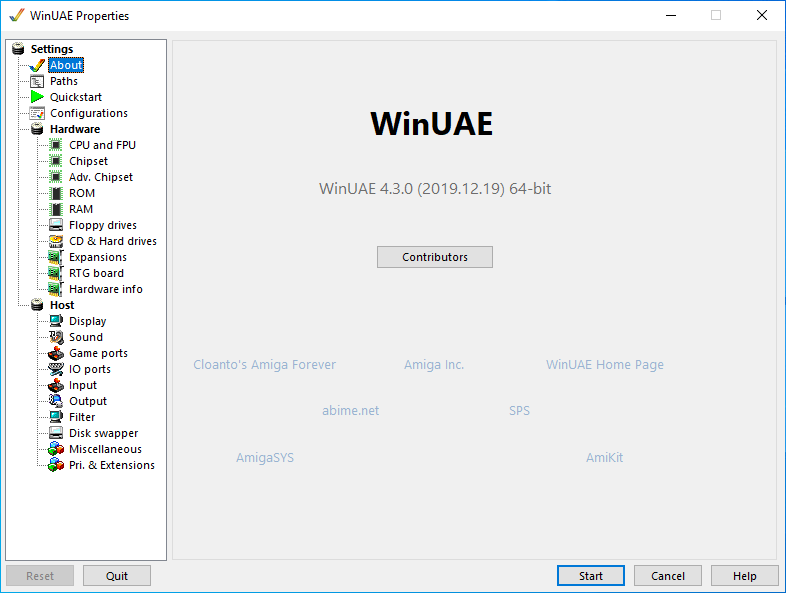
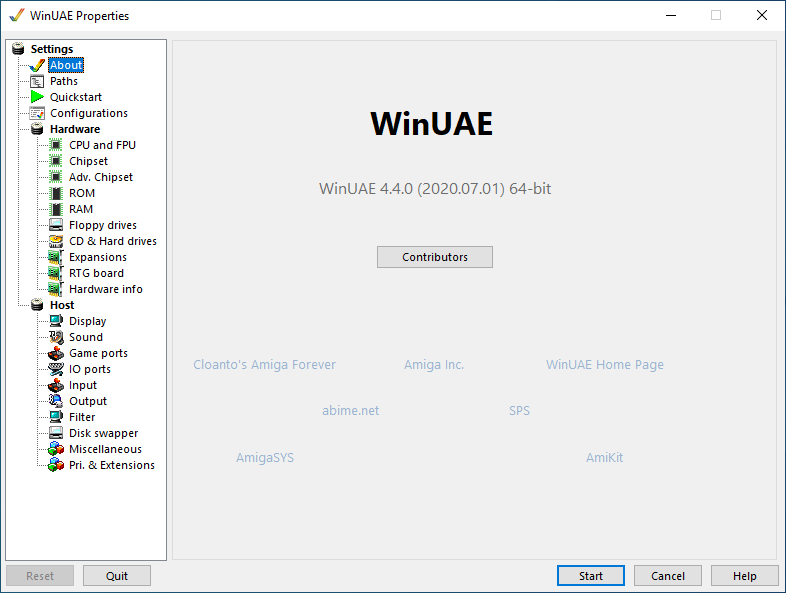
Update for WinUAE 4.4, add A4000/PPC example.

diff --git a/gui/misc.htm b/gui/misc.htm
@@ -85,15 +85,17 @@
     tab).<br>
     <strong>Automatically capture mouse when window is
     activated.</strong> Saves having to capture mouse when swapping
-    windows to Winuae.</p>
+    windows to Winuae.<br>
+    <b>Debug memory space</b> Debug accesses to memory space
+    (memwatch).</p>
     <h1>Miscellaneous Options</h1>
     <p><span><strong>SCSI and CD/DVD access .</strong> Select type
-    of ASPI layer to use e.g. SPTI, Adaptec, Nero ASPI or Frog
-    ASPI.</span><br>
+    of ASPI layer to use, e.g. SCSI Emulation, SPTI, SPTI + SCSI
+    Scan.</span><br>
     <strong>Windowed style.</strong> Select the following styles:
     Borderless, Minimal, Standard or Extended<br>
     <strong>Graphics API</strong> to specify API to use for
-    graphics e.g. Direct3D or DirectDraw.<br>
+    graphics e.g. Direct3D 9, Direct3D 11 or DirectDraw.<br>
     <strong>DirectDraw</strong> Specify type of ram for display
     buffer system as Default RAM, Local VRAM, Non Local VRAM or
     System RAM.<br></p>
@@ -104,8 +106,6 @@
     English.<br>
     <strong>GUI Font.</strong> Select a font for GUI, select a font
     using Windows font selection window.<br>
-    <strong>List font.</strong> Select a font for lists, select a
-    font using Windows font selection window.<br>
     <strong>Set default.</strong> Set the default font.<br>
     <strong>Select</strong> font size from 60% to 140%.<br>
     <strong>Reset list customizations</strong> sets all list

diff --git a/started/examples.htm b/started/examples.htm
@@ -141,7 +141,7 @@
         <td>AGA</td>
         <td>AGA</td>
         <td>AGA</td>
-        <td>Picasso IV</td>
+        <td>AGA/Picasso IV</td>
       </tr>
       <tr>
         <td>Floppies</td>
@@ -153,6 +153,39 @@
         <td>None</td>
         <td>880kB/1600kB</td>
         <td>880kb/1600Kb</td>
+      </tr>
+      <tr>
+        <td>HD Controller</td>
+        <td>A590</td>
+        <td>A590</td>
+        <td>A600 IDE</td>
+        <td>A3000 SCSI</td>
+        <td>A1200 IDE</td>
+        <td>n/a</td>
+        <td>A4000 IDE</td>
+        <td>CyberStorm PPC</td>
+      </tr>
+      <tr>
+        <td>Network card</td>
+        <td>n/a</td>
+        <td>n/a</td>
+        <td>n/a</td>
+        <td>n/a</td>
+        <td>n/a</td>
+        <td>n/a</td>
+        <td>n/a</td>
+        <td>A2065</td>
+      </tr>
+      <tr>
+        <td>RTG Graphics</td>
+        <td>n/a</td>
+        <td>n/a</td>
+        <td>n/a</td>
+        <td>n/a</td>
+        <td>Picasso IV</td>
+        <td>n/a</td>
+        <td>Picasso IV</td>
+        <td>Picasso IV</td>
       </tr>
     </table>
   </article>

diff --git a/faq.htm b/faq.htm
@@ -14,7 +14,7 @@
     which includes support for DirectX 11, also hardware level 9.1
     or higher (most Windows 7 capable GPUs are supported), all
     Direct3D9 mode features are supported, variable sync is
-    supported.</p>
+    supported. However, the CPU must support SSE2!</p>
     <h1>Can a PC read Amiga floppy disks?</h1>
     <p>Yes, if you have two floppy drives and the new <a href=
     "links.htm#tools">Disk2FDI</a> program which will read Amiga
